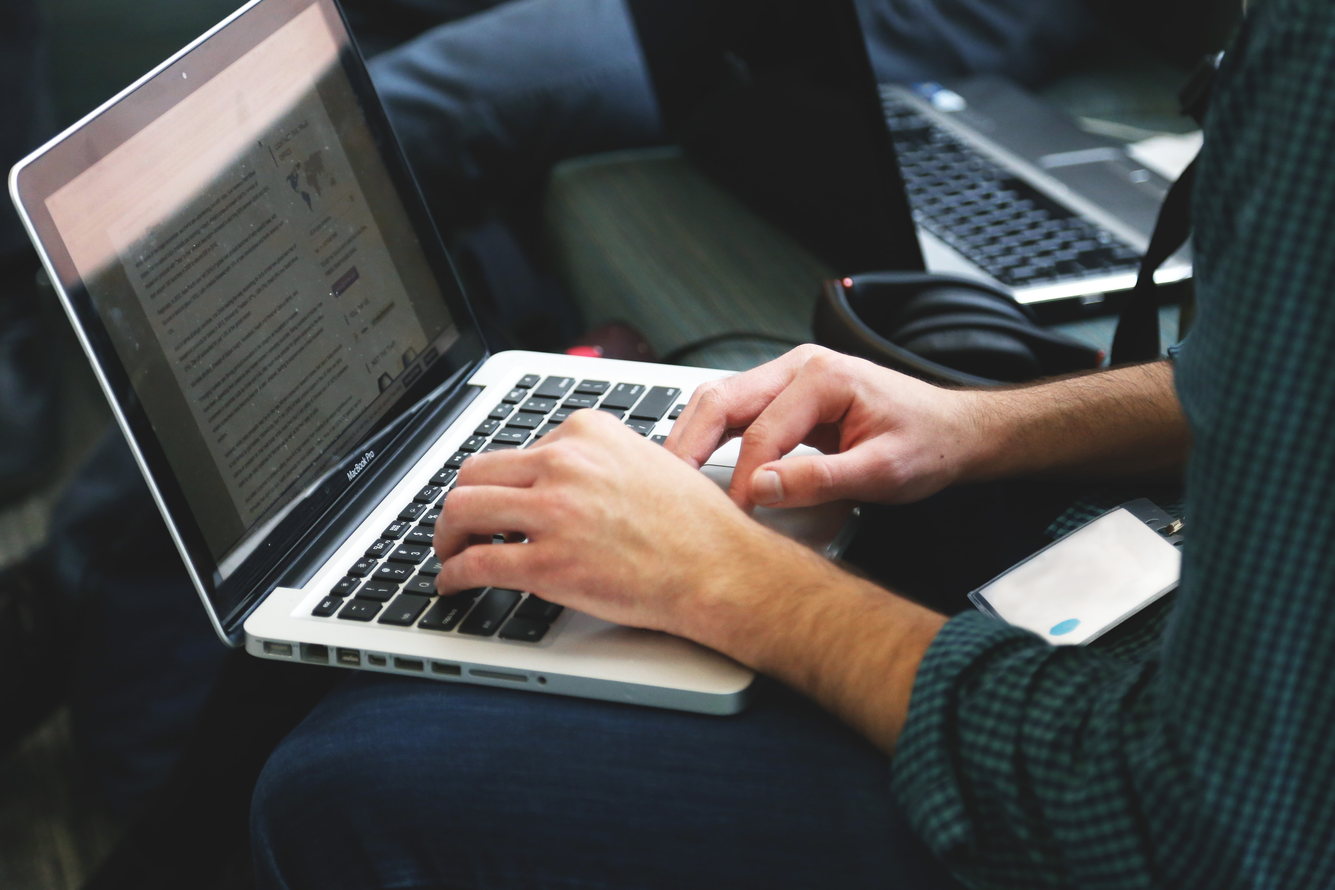
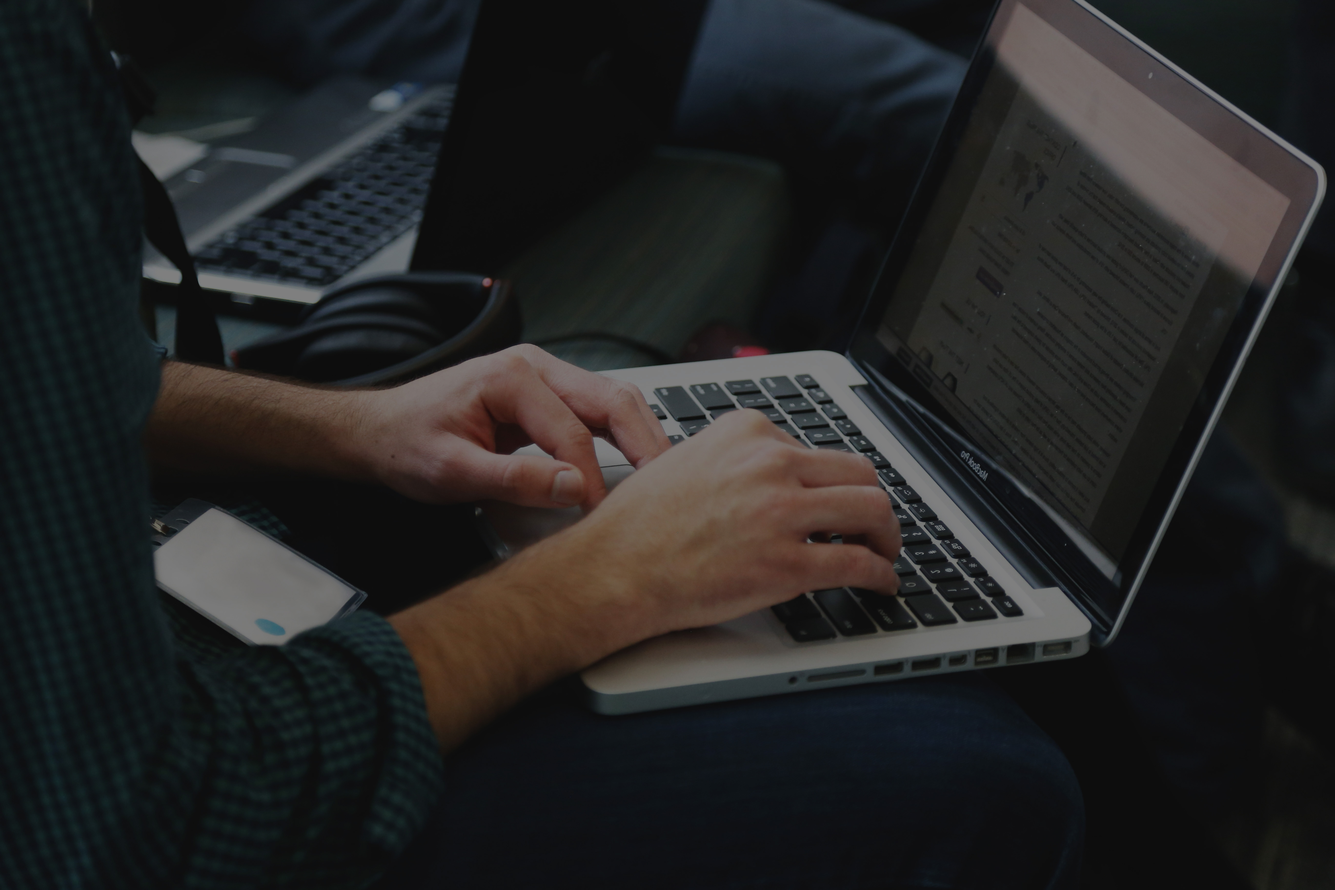
views revisioin, fixed welcome and register page

diff --git a/application/resources/assets/css/cover-page.css b/application/resources/assets/css/cover-page.css
@@ -2,21 +2,48 @@
  * Globals
  */
 
-/* Links */
-a,
-a:focus,
-a:hover {
-  color: #fff;
-}
 
 /* Custom default button */
-.btn-default,
+.btn-default{
+  color: #fff;
+  text-shadow: none; /* Prevent inheritence from `body` */
+  background-color: #900000;
+  border-color: #900000;
+   outline: none !important;
+  -webkit-box-shadow: 0px 8px 0px 0px rgba(112,0,0,1);
+  -moz-box-shadow: 0px 8px 0px 0px rgba(112,0,0,1);
+  box-shadow: 0px 8px 0px 0px rgba(112,0,0,1);
+}
+
 .btn-default:hover,
 .btn-default:focus {
-  color: #333;
+  color: #fff;
   text-shadow: none; /* Prevent inheritence from `body` */
-  background-color: #fff;
-  border: 1px solid #fff;
+  background-color: #900000;
+  border-color: #900000;
+   outline: none !important;
+}
+
+.btn-default:active{
+  color: #fff !important;
+  text-shadow: none; /* Prevent inheritence from `body` */
+  background-color: #900000 !important;
+  border-color: #900000 !important;
+   outline: none !important;
+  -webkit-box-shadow: none;
+  -moz-box-shadow: none;
+  box-shadow: none;
+  -webkit-transform: translate(0,8px);
+  -moz-transform: translate(0,8px);
+  -o-transform: translate(0,8px);
+  -ms-transform: translate(0,8px);
+  transform: translate(0,8px);
+}
+
+.animate
+{
+  transition: all 0.1s;
+  -webkit-transition: all 0.1s;
 }
 
 
@@ -27,19 +54,24 @@ a:hover {
 html,
 body {
   height: 100%;
+  background-image: url('../images/photo/img2.jpg');
+  -webkit-background-size: cover;
+  -moz-background-size: cover;
+  -o-background-size: cover;
+  background-size: cover;
 }
 body {
-  color: #333;
   text-align: center;
-  text-shadow: 0 1px 3px rgba(0,0,0,.5);
+  margin: 0 !important;
 }
 
 /* Extra markup and styles for table-esque vertical and horizontal centering */
 .site-wrapper {
+  color: #fff;
   display: table;
+  text-shadow: 0 1px 3px rgba(0,0,0,.5);
   width: 100%;
   height: 100%; /* For at least Firefox */
-  min-height: 100%;
   margin: 0 auto -36px; 
   -webkit-box-shadow: inset 0 0 100px rgba(0,0,0,.5);
           box-shadow: inset 0 0 100px rgba(0,0,0,.5);
@@ -55,7 +87,7 @@ body {
 
 /* Padding for spacing */
 .inner {
-  padding: 2px;
+  padding: 3px;
 }
 
 
@@ -104,33 +136,12 @@ body {
   -webkit-box-shadow: inset 0px 0px 52px 2px rgba(112,0,0,1), 0px 8px 0px 0px rgba(112,0,0,1);
   -moz-box-shadow: inset 0px 0px 52px 2px rgba(112,0,0,1), 0px 8px 0px 0px rgba(112,0,0,1);
   box-shadow: inset 0px 0px 52px 2px rgba(112,0,0,1), 0px 8px 0px 0px rgba(112,0,0,1);
+  font-family: 'Montserrat', sans-serif;
 }
 
 .navbar-header{
    display: inline;
 }
-
-@media (min-width: 768px) {
-  .masthead-brand {
-    float: left;
-    width: 17%;
-  }
-  .masthead-nav {
-    float: right;
-  }
-}
-
-@media (min-width: 320px) {
-  .masthead-brand {
-    float: left;
-    width: 17%;
-  }
-  .masthead-nav {
-    float: right;
-  }
-
-}
-
 
 /*
  * Cover
@@ -155,9 +166,9 @@ body {
   color: rgba(255,255,255,.5);
   background-color: #900000;
   border-color: #700000;
-  -webkit-box-shadow: inset 0px 0px 52px 2px rgba(112,0,0,1), 0px -8px 0px 0px rgba(112,0,0,1);
-  -moz-box-shadow: inset 0px 0px 52px 2px rgba(112,0,0,1), 0px -8px 0px 0px rgba(112,0,0,1);
-  box-shadow: inset 0px 0px 52px 2px rgba(112,0,0,1), 0px -8px 0px 0px rgba(112,0,0,1);
+  -webkit-box-shadow: inset 0px 0px 52px 2px rgba(112,0,0,1);
+  -moz-box-shadow: inset 0px 0px 52px 2px rgba(112,0,0,1);
+  box-shadow: inset 0px 0px 52px 2px rgba(112,0,0,1);
 }
 
 
@@ -171,7 +182,6 @@ body {
     top: 0;
   }
   .mastfoot {
-    
     bottom: 0;
   }
   /* Start the vertical centering */
@@ -184,6 +194,16 @@ body {
   .cover-container {
     width: 100%; /* Must be percentage or pixels for horizontal alignment */
   }
+
+  .icon, .icon2{
+    width:20%;
+  }
+
+  .masthead-brand {
+    float: left;
+    width: 110px;
+  }
+
 
 }
 
@@ -206,6 +226,13 @@ body {
   .cover-container {
     width: 100%; /* Must be percentage or pixels for horizontal alignment */
   }
+  .icon, .icon2{
+    width:28%;
+  }
+  .masthead-brand {
+    width: 17% ;
+  }
+
 
 }
 
@@ -215,4 +242,66 @@ body {
   .cover-container {
     width: 100%;
   }
+  .icon{
+    width:50%;
+  }
+  .icon2{
+    width:37%;
+  }
+  .masthead-brand {
+    width: 17%;
+  }
+
+}
+
+/*Font
+*/
+h1, h2, h3, footer, a, button, .title{
+  font-family: 'Montserrat', sans-serif;
+}
+
+small{
+  font-family: 'Lato', sans-serif;
+  color: #e8e8e8 !important;
+}
+
+span, input{
+  font-family: 'Lato', sans-serif;
+}
+
+.title{
+  margin: 40px 20px;
+
+}
+
+/* panel
+*/
+.panel{
+  color:#000;
+  text-shadow: none;
+  border-radius: 15px;
+}
+
+.reg{
+  padding-right: 0px !important;
+}
+
+.has-error .form-control {
+    border-color: #700000;
+    border-width: 2.5px;
+    -webkit-box-shadow: inset 0 1px 1px rgba(0,0,0,.075);
+    box-shadow: inset 0 1px 1px rgba(0,0,0,.075);
+}
+
+input:focus{
+
+    border-color: #700000 !important;
+     border-width: 2.5px;
+    -webkit-box-shadow: inset 0 1px 1px rgba(0,0,0,.075) !important;
+    box-shadow: inset 0 1px 1px rgba(0,0,0,.075) !important;
+}
+
+strong{
+  color: #700000 !important;
+  font-size: 16px;
 }

diff --git a/application/resources/views/register.blade.php b/application/resources/views/register.blade.php
@@ -9,47 +9,54 @@
 @section('content')
 <div class="container">
     <div class="row">
-     <div class="col-md-8 col-md-offset-2">
-      <div class="panel panel-default">
-        <div class="panel-heading">Complete your data</div>
+     <div class="col-md-6 col-xs-8 col-xs-offset-2 col-md-offset-3">
+      <div class="panel panel-default reg">
+        <h1 class="text-center">Complete your profile
+        <img src="resources/assets/images/logo/logo.png" class="img-responsive center-block" width="10%">
+        </h1>
         <div class="panel-body">
+         
          <form class="form-horizontal" role="form" method="POST" action="{{ url('/register') }}">
           {!! csrf_field() !!} 
           <div class="form-group{{ $errors->has('email') ? ' has-error' : '' }}">
-            <label class="col-md-4 control-label">E-Mail</label>
-            <div class="col-md-6">
-              <input type="email" class="form-control" name="email" value="{{ old('email') }}"> 
-              @if ($errors->has('email')) 
-              <span class="help-block"> 
-                <strong>{{ $errors->first('email') }}</strong> 
-              </span>
-              @endif
+            <div class="col-md-10 col-xs-10 col-xs-offset-1">
+              <input type="email" class="form-control input-lg" name="email" placeholder="Email" value="{{ old('email') }}"> 
             </div>
           </div>
 
           <div class="form-group{{ $errors->has('phone') ? ' has-error' : '' }}">
-            <label class="col-md-4 control-label">Handphone</label>
-            <div class="col-md-6">
-              <input type="text" class="form-control" name="phone" value="{{ old('phone') }}"> 
-              @if ($errors->has('phone')) 
-              <span class="help-block">
-                <strong>{{ $errors->first('phone') }}</strong>
-              </span> 
-              @endif 
+            <div class="col-md-10 col-xs-10 col-xs-offset-1">
+              <input type="text" class="form-control input-lg" name="phone" placeholder="Handphone Number" value="{{ old('phone') }}"> 
+              
             </div>
           </div>
 
           <div class="form-group">
-            <div class="col-md-6 col-md-offset-4">
-              <button type="submit" class="btn btn-primary btn-block right">
-                <i class="fa fa-btn fa-user"></i>Register
+             <div class="col-md-10 col-xs-10 col-xs-offset-1">
+
+                @if ($errors->has('email')) 
+                  <span class="help-block"><strong>This data is required</strong></span>
+                @else
+                  @if ($errors->has('phone')) 
+                  <span class="help-block">
+                    <strong>{{ $errors->first('phone') }}</strong>
+                  </span> 
+                  @endif 
+
+                @endif
+            </div>
+          </div>
+          
+          <div class="form-group">
+            <div class="col-md-10 col-xs-10 col-xs-offset-1">
+              <button type="submit" class="btn btn-lg btn-default btn-block center animate">Register
               </button>
             </div>
-
           </div>
 
           <input type="hidden" name="_token" value="<?php echo csrf_token(); ?>">
         </form>
+
       </div>
     </div>
   </div>

diff --git a/application/resources/views/layout-landing.blade.php b/application/resources/views/layout-landing.blade.php
@@ -21,27 +21,28 @@
     <link rel="icon" href="resources/assets/images/logo/logo.png">
 
     <link rel="stylesheet" href="{{ url('/resources/assets/css/cover-page.css') }}">
+    <link href='https://fonts.googleapis.com/css?family=Montserrat|Lato:300' rel='stylesheet' type='text/css'>
 	@yield('custom-styles')
 
 </head>
 <body>
 	<div class="site-wrapper">
         <div class="site-wrapper-inner">
-            <div class="cover-container">
+            <div class="container">
 				<nav class="navbar navbar-default navbar-fixed-top">
-			        <div class="container-fluid">
+			        <div class="container">
 			            <div class="navbar-header"> 
-			                <button type="button" class="navbar-toggle" data-toggle="collapse" data-target="#myNavbar">
+			                <button type="button" class="navbar-toggle navbar-right" data-toggle="collapse" data-target="#myNavbar">
 			                    <span class="icon-bar"></span>
 			                    <span class="icon-bar"></span>
 			                    <span class="icon-bar"></span>                        
 			                </button>      
-			                <a class="masthead-brand" href="#">
-			                    <img src="resources/assets/images/logo/uisioner-logo.png" class="img-responsive navbar-left" alt="UIsioner">
+			                <a class="masthead-brand navbar-left" href="welcome">
+			                    <img src="resources/assets/images/logo/uisioner-logo.png" class="img-responsive logo-width" alt="UIsioner">
 			                </a>
 			               
 			            </div>
-			            <div class="collapse navbar-collapse" id="myNavbar">
+			            <div class="collapse navbar-collapse navbar-right" id="myNavbar">
 			                <ul class="nav masthead-nav ">
 			               		@yield('active')
 			                    
@@ -54,11 +55,11 @@
         	 </div>
         </div>
     </div>
-	 <div class="mastfoot">
+	 <footer class="mastfoot">
         <div class="inner">
             <p>&copy; 2016 PPL-B06</p>
         </div>
-    </div>
+    </footer>
 
 
 	<!-- jQuery (necessary for Bootstrap's JavaScript plugins) -->

diff --git a/application/resources/views/welcome.blade.php b/application/resources/views/welcome.blade.php
@@ -7,13 +7,13 @@
 
 @section('content') 
     <div class="inner cover">
-        <img src="resources/assets/images/logo/logo_H.png" class="img-responsive center-block" margin-left="188 px" alt="UIsioner" width="55%">
+        <img src="resources/assets/images/logo/logo_H.png" class="img-responsive center-block" margin-left="188 px" alt="UIsioner" max-width="50%">
 
         <h2 class="cover-heading">Gathering data has never been this fun.
         </br>
-        <small class="lead">UIsioner is a place for UI students to create questionnaire and collect data easily. Create forms and get data, or fill forms and get rewards. It's up to you.</small></h2>
+        <small class="lead">UIsioner is a place for UI students to create questionnaire and collect data easily. <br/>Create forms and get data, or fill forms and get rewards. It's up to you.</small></h2>
         <small class="lead">
-            <a href="login" class="btn btn-lg btn-default">Login with SSO UI</a>
+            <a href="login" class="btn btn-lg btn-default animate">Login with SSO UI</a>
         </small>
     </div>
 @stop
